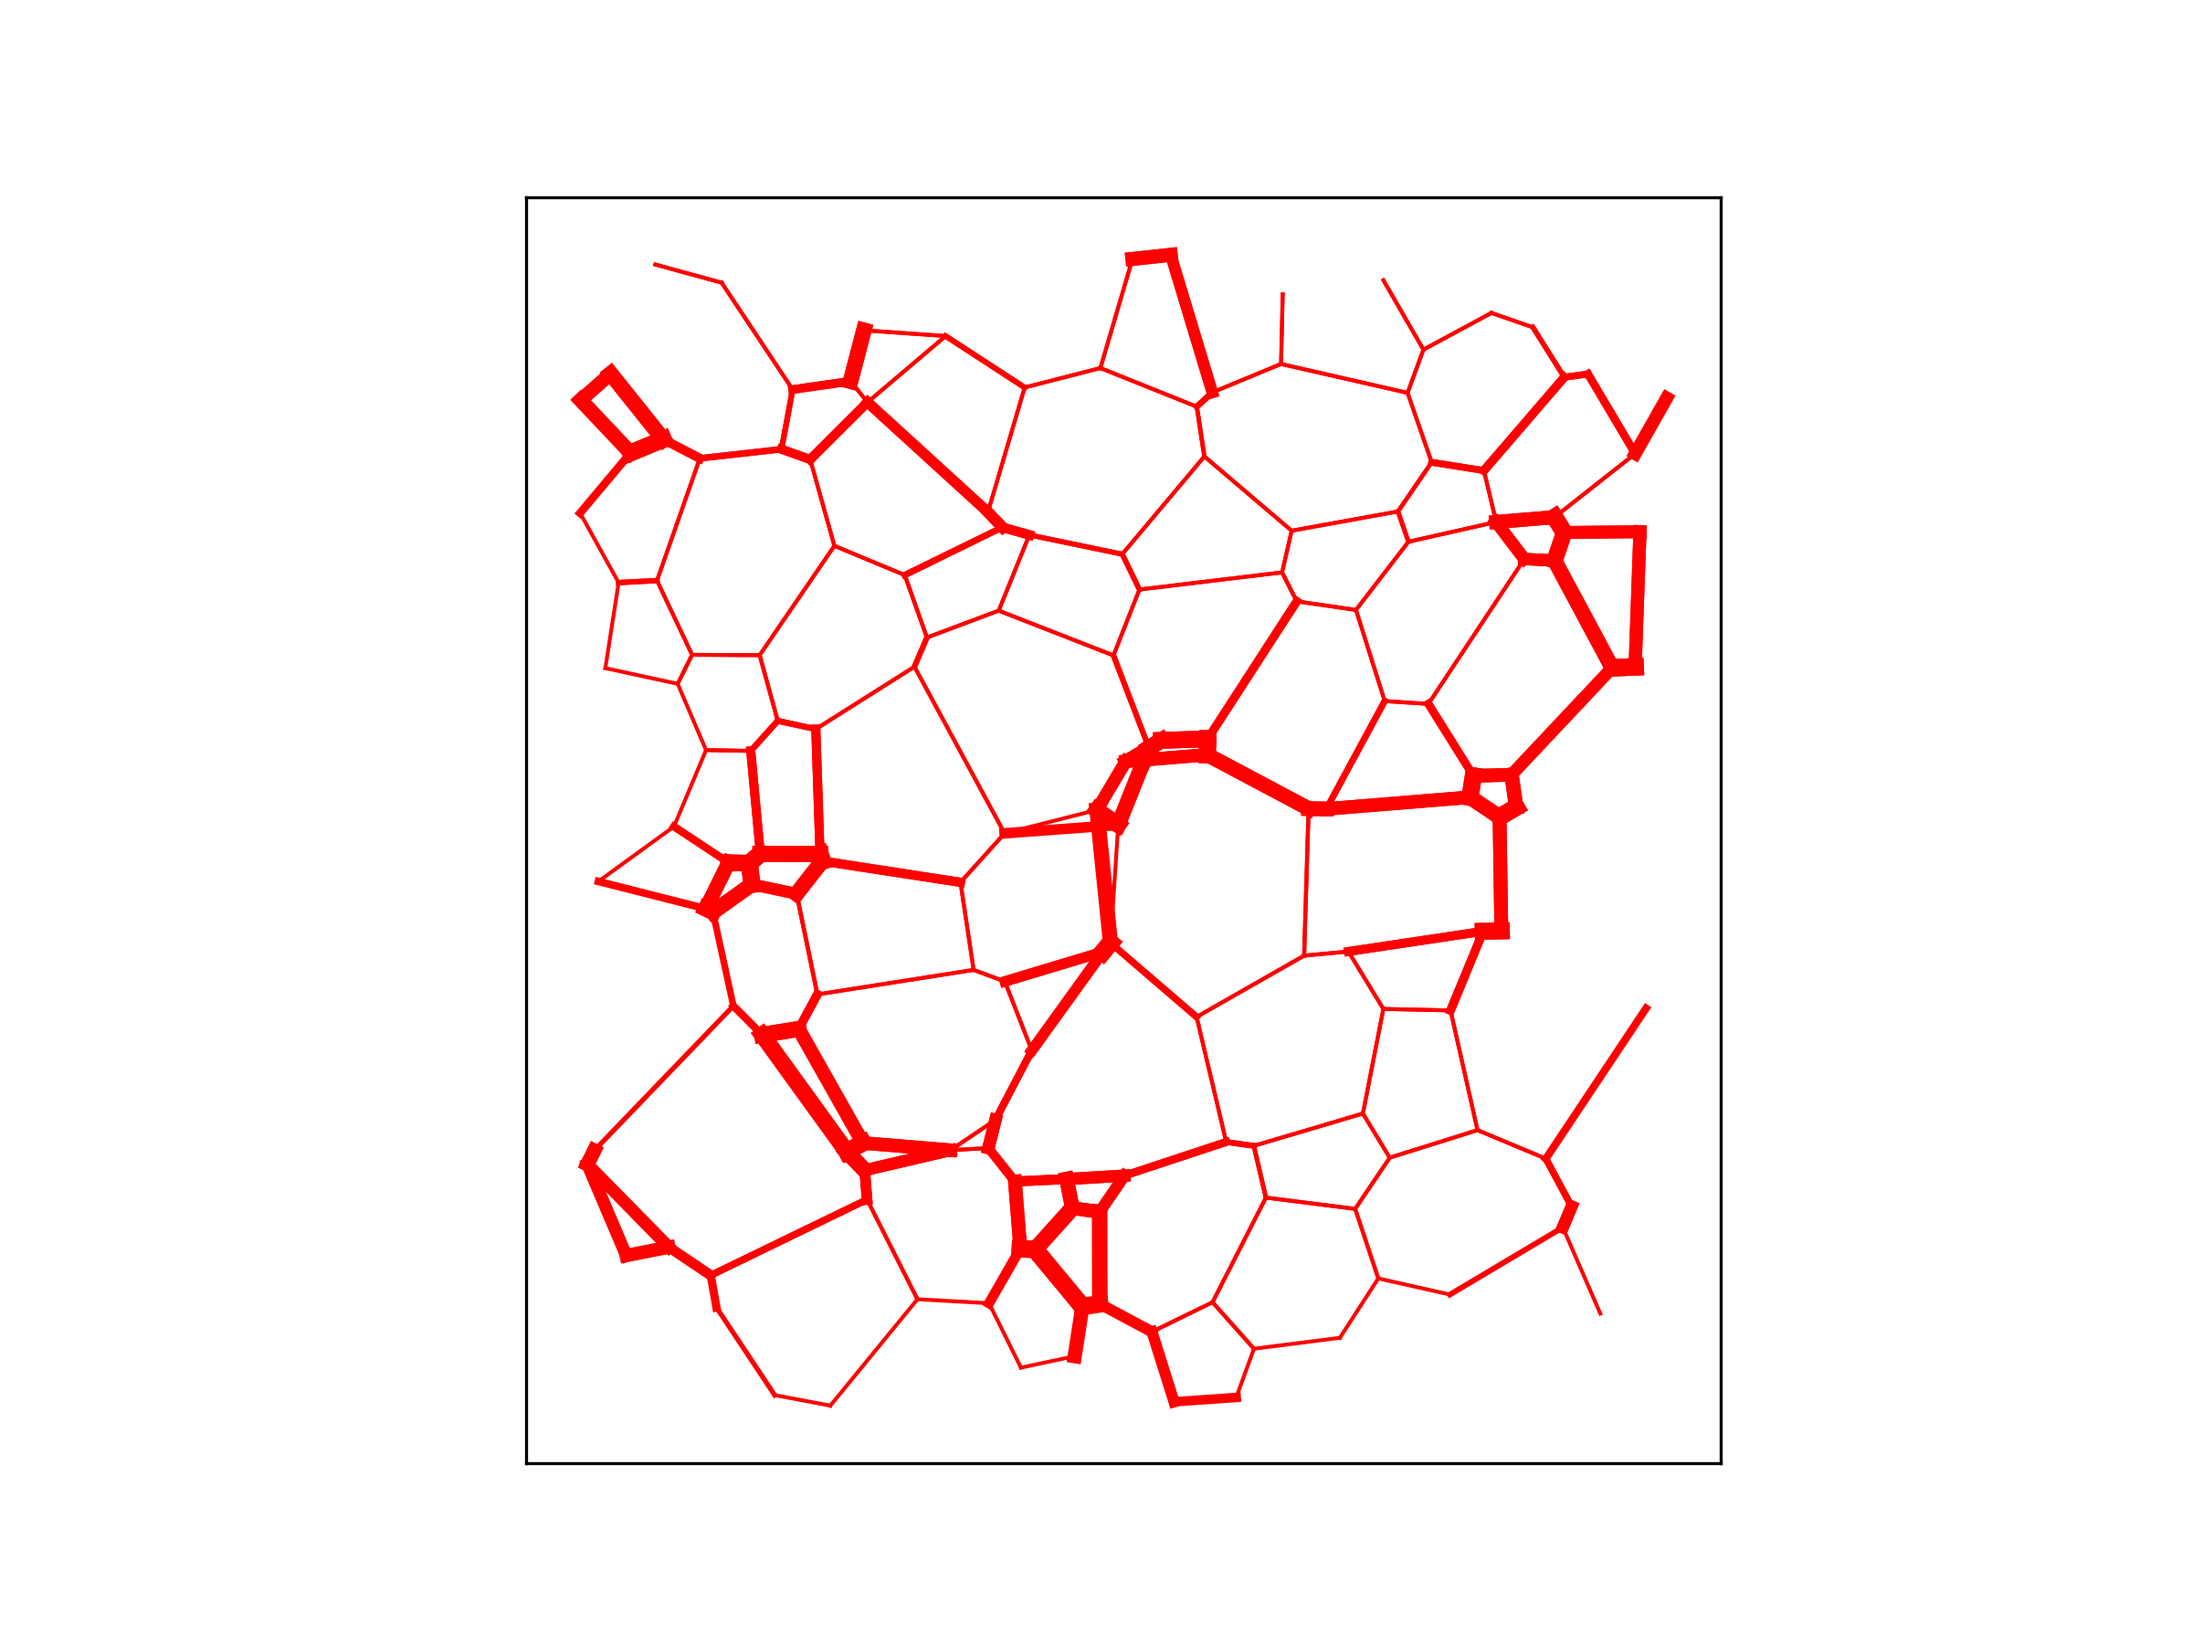
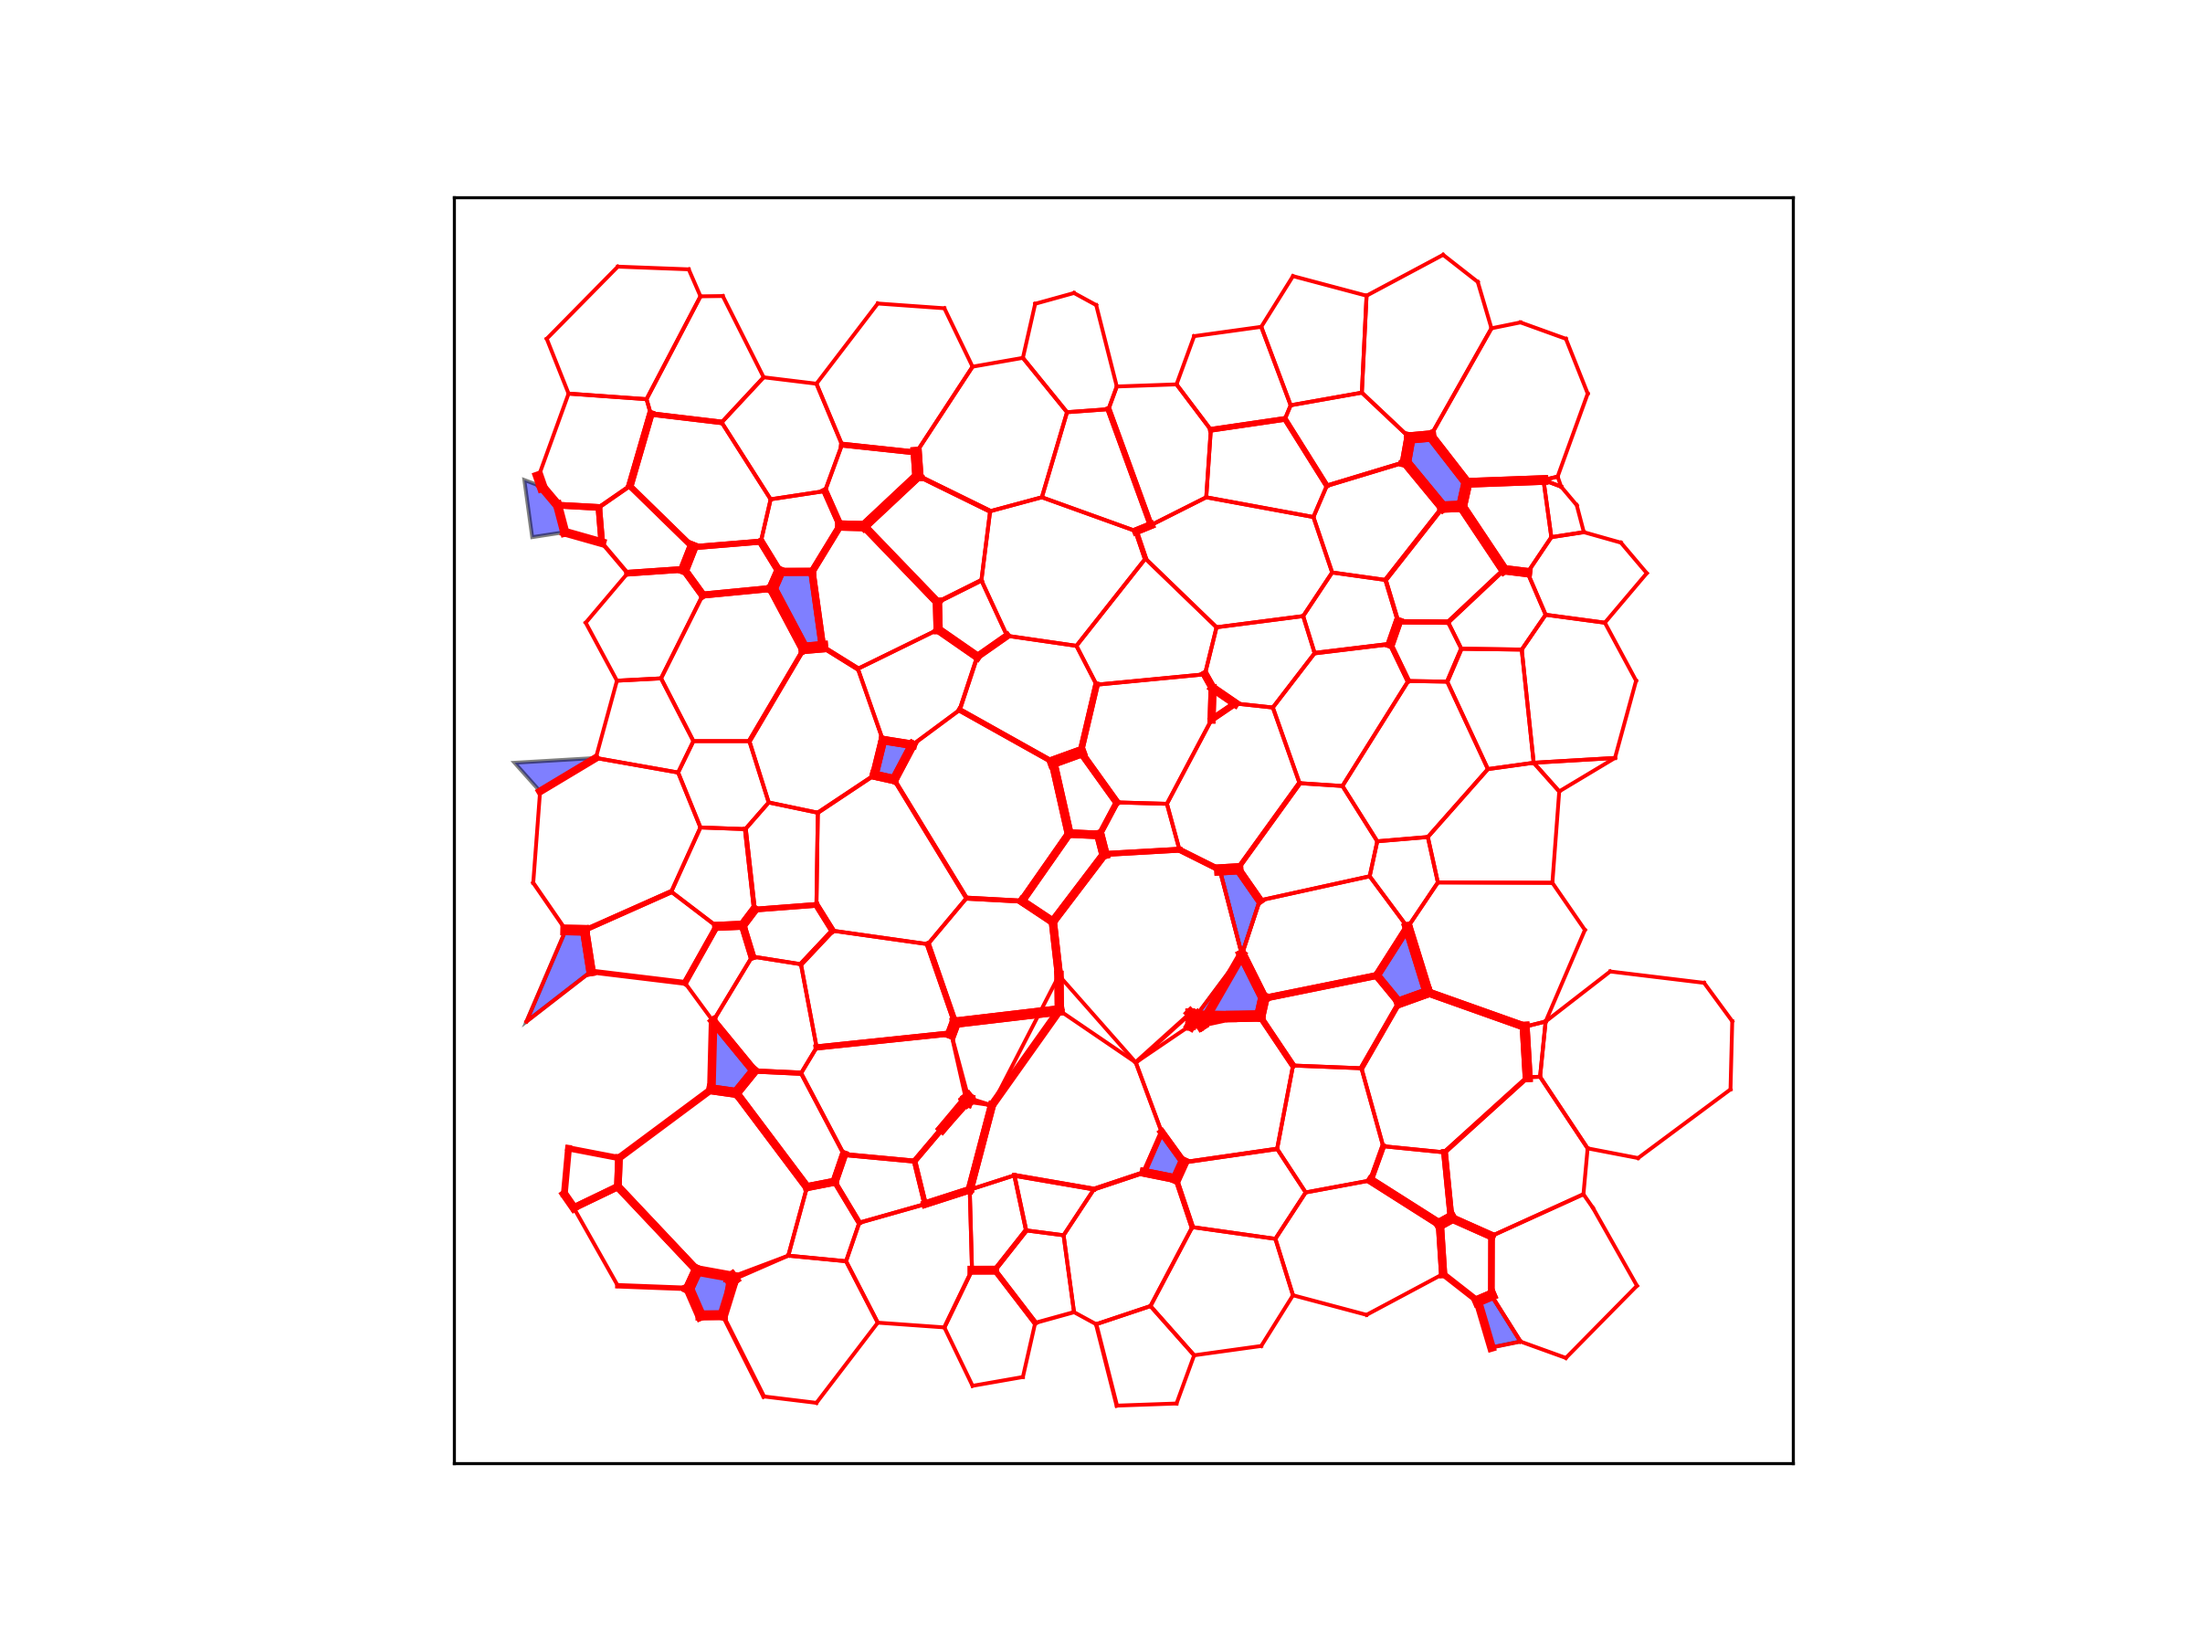
check_planar

diff --git a/graph_datastruct.py b/graph_datastruct.py
@@ -12,6 +12,7 @@ import PIL.Image as Image
 import numpy as np
 import matplotlib.pyplot as plt
 from matplotlib import cm
+import matplotlib.patches as patches
 from matplotlib.colors import ListedColormap
 plt.rcParams.update({'font.size': 24})
 coolwarm = cm.get_cmap('coolwarm', 256)
@@ -27,6 +28,7 @@ from math import pi
 from collections import defaultdict
 import math
 import argparse
+import networkx as nx
 from user_generate import user_defined_config
 
 def angle_norm(angular):
@@ -252,7 +254,9 @@ class graph:
         self.region_coors = defaultdict(list)
         self.region_edge = defaultdict(set)
         self.region_center = defaultdict(list)
-        self.vertex_coord_to_index= {}
+        self.vertex_coord_to_index = {}
+        self.index_to_vertex_coord = {}
+        self.elim_grain_to_vertices={}
         self.edge_prob_dict = {}
         self.junct_gradient_dict={}
 
@@ -625,8 +629,93 @@ class graph:
         ax.set_yticks([])
         plt.savefig(fname, dpi=300)
 
+    def check_planar(self, edge_index_dict):
+        def plot_edges(self, edges):
+            for u, v in edges:
+                # Retrieve coordinates from self.vertices
+                coord_u = self.vertices[u]
+                coord_v = self.vertices[v]
+                # Plot the edge between the two coordinates
+                plt.plot([coord_u[0], coord_v[0]], [coord_u[1], coord_v[1]], 'k-')
+            plt.title("Graph Plot")
+            plt.xlabel("x")
+            plt.ylabel("y")
+            plt.savefig('planar_graph.png',dpi=600)
+
+        E_pp = edge_index_dict['joint', 'connect', 'joint']
+        G=nx.Graph()
+        for v,coord in self.vertices.items():
+            G.add_node(v, pos=coord)
+        unique_edges = set()
+        num_edges = E_pp.shape[1]
+        for i in range(num_edges):
+            src = int(E_pp[0, i].item())
+            dst = int(E_pp[1, i].item())
+            if(math.sqrt((self.vertices[src][0]-self.vertices[dst][0])**2+(self.vertices[dst][1]-self.vertices[src][1])**2)>0.8):
+                continue
+            edge = (min(src, dst), max(src, dst))
+            unique_edges.add(edge)
+        
+        for edge in unique_edges:
+            G.add_edge(*edge)
+
+        is_planar,embedding =nx.check_planarity(G,counterexample=True)
+        #plot_edges(self,counterexample.edges())
+        if is_planar:
+            pos = nx.spring_layout(G)
+            nx.draw(G, pos, with_labels=True)
+            plt.savefig('planar_graph.png',dpi=600)
+
+
+        # if not is_planar:
+        #     print("counterexample:",counterexample.edges())
+        #     pos = nx.spring_layout(counterexample)
+        #     nx.draw(counterexample, pos, with_labels=True)
+        #     plt.savefig('planar_graph.png',dpi=600)
+
+        print("Graph is planar:", is_planar)
+    
     def snap_classifer(self,fname='snap_classifer'):
-        def scale_linewidth(prob, threshold=1e-9, base_width=1, max_width=10, scale_factor=0.4):
+        fig, ax = plt.subplots(figsize=(8, 6))
+        def sort_polygon(coords):
+            cx = sum([p[0] for p in coords]) / len(coords)
+            cy = sum([p[1] for p in coords]) / len(coords)
+            
+            # Sort the points by the angle they make with the centroid
+            sorted_coords = sorted(coords, key=lambda p: math.atan2(p[1] - cy, p[0] - cx))
+            return sorted_coords
+        color = 'blue'
+        alpha = 0.5
+        print('elimgrains',self.elim_grain_to_vertices.items())
+        for grain, vertex_indices in self.elim_grain_to_vertices.items():
+            # Get coordinates for all vertices of this grain.
+            coords = [self.index_to_vertex_coord[v] for v in vertex_indices]
+            
+            # Check we have enough points
+            if len(coords) < 3:
+                continue
+            
+            ref=coords[0]
+            # ref = None
+            # for coord in coords:
+            #     if coord[0] > 0.5 and coord[1] > 0.5:
+            #         ref = coord
+            #         break
+            # if ref is None:
+            #     ref = coords[0] 
+
+            # Adjust every coordinate so that it is in the same periodic cell as the reference.
+            adjusted_coords = [periodic_move(coord, ref) for coord in coords]
+            
+            # Now sort the adjusted coordinates into a proper polygon order.
+            sorted_coords = sort_polygon(adjusted_coords)  # Assume sort_polygon is defined elsewhere
+            
+            # Create a polygon patch from the sorted coordinates
+            polygon = patches.Polygon(sorted_coords, closed=True,
+                                    facecolor=color, edgecolor='black', alpha=alpha)
+            ax.add_patch(polygon)
+
+        def scale_linewidth(prob, threshold=1e-8, base_width=1, max_width=10, scale_factor=0.25):
             if prob < threshold:
                 return base_width
             # Compute the logarithmic scale factor
@@ -634,7 +723,6 @@ class graph:
             # Cap the linewidth at max_width
             return min(lw, max_width)
         # Create a single subplot (a single axis)
-        fig, ax = plt.subplots(figsize=(8, 6))
         
         for coors in self.region_coors.values():
             for i in range(len(coors)):
@@ -659,12 +747,12 @@ class graph:
                 nxt_index = self.vertex_coord_to_index.get(nxt_key)
 
                 if cur_index is None or nxt_index is None:
-                    continue
+                    prob=0
+                else:
+                    edge = (min(cur_index, nxt_index), max(cur_index, nxt_index))
+                    prob = self.edge_prob_dict.get(edge, 0)
 
-                edge = (min(cur_index, nxt_index), max(cur_index, nxt_index))
-                prob = self.edge_prob_dict.get(edge, 0)
-
-                lw = scale_linewidth(prob, threshold=1e-9)
+                lw = scale_linewidth(prob, threshold=1e-8)
 
 
                 ax.plot([cur[0], nxt[0]], [cur[1], nxt[1]], color='r', linewidth=lw)
@@ -760,6 +848,7 @@ class graph:
         self.region_center.clear()
         self.region_edge.clear()
         self.vertex_coord_to_index.clear()
+        self.index_to_vertex_coord.clear()
         region_bound = defaultdict(list)
         
         for k, v in self.joint2vertex.items():
@@ -776,6 +865,7 @@ class graph:
                     coord = tuple(coord)
                 # Store the mapping: key = coordinate, value = vertex index
                 self.vertex_coord_to_index[coord] = v
+                self.index_to_vertex_coord[v]=coord
         cnt = 0
         edge_count = 0
 

diff --git a/test.py b/test.py
@@ -85,7 +85,7 @@ if __name__=='__main__':
     parser.add_argument("--interp_frames", type=int, default=0)    
     parser.add_argument("--save_fig", type=int, default=2)
     parser.add_argument("--reconst_mesh_size", type=float, default=0.08) 
-    parser.add_argument("--nucleation_density", type=float, default=0.00)
+    parser.add_argument("--nucleation_density", type=float, default=0.001)
 
     parser.add_argument("--temporal", dest='temporal', action='store_true')
     parser.set_defaults(temporal=False)
@@ -295,6 +295,7 @@ if __name__=='__main__':
             X = {k:v.clone() for k, v in data.x_dict.items()}
             prev_X, prev_mask, prev_edge_index_dict = {k:v.clone() for k, v in X.items()}, {k:v.clone() for k, v in data['mask'].items()}, {k:v.clone() for k, v in data.edge_index_dict.items()}
             traj.GNN_update(0, X, data['mask'], True, data.edge_index_dict, args.compare)
+            traj.check_planar(prev_edge_index_dict)
             if args.plot:
                 traj.show_data_struct()
                 
@@ -304,7 +305,7 @@ if __name__=='__main__':
             
             if args.growth_height>0:
                 traj.final_height = traj.ini_height + args.growth_height
-            traj.frames = int( (traj.final_height - traj.ini_height)/train_delta_z ) + 1-72
+            traj.frames = int( (traj.final_height - traj.ini_height)/train_delta_z ) + 1-84
             
 
             geometry_scaling = {'domain_offset':0, 'domain_factor':traj.lxd/traj.patch_size}
@@ -356,6 +357,7 @@ if __name__=='__main__':
                 height = traj.ini_height + frame*train_delta_z
                 if args.save_fig>1 and (frame)%((traj.frames - 1)//(args.save_fig-1))==0:
                     traj.snap('snap_before')
+                traj.check_planar(data.edge_index_dict)
                 
                 """
                 <1> combine predictions from regressor and classifier
@@ -407,13 +409,7 @@ if __name__=='__main__':
                 if data.x_dict['grain'][0, 2] > train_frames/(train_frames + 1):
                     data.x_dict['grain'][:, 2] = train_frames/(train_frames + 1)         
                     data.x_dict['joint'][:, 2] = train_frames/(train_frames + 1)
-                if args.save_fig>1 and frame%((traj.frames - 1)//(args.save_fig-1))==0:
-                    traj.edge_prob_dict=Cmodel.get_prob(data.edge_index_dict,pred)
-                    traj.snap_classifer('class_before')
-                    traj.junct_gradient_dict=Rmodel.get_gradient_dict(data.x_dict)
-                    traj.show_movement('vertex changes')                
-                print(data.x_dict['joint'][10:20,6:8])
-                print(len(traj.vertex_coord_to_index))
+            
                 
                 """
                 <3> predict events and update features and connectivity
@@ -427,6 +423,12 @@ if __name__=='__main__':
                 if traj.BC == 'noflux': # the grain 0 here is boundary grain
                     pred['grain_event'] = pred['grain_event'][pred['grain_event']!=0]
                 
+                if args.save_fig>1 and frame%((traj.frames - 1)//(args.save_fig-1))==0:
+                    traj.edge_prob_dict=Cmodel.get_prob(data.edge_index_dict,pred)
+                    traj.elim_grain_to_vertices=Cmodel.get_elimin_grain_vertex(data.edge_index_dict,pred, geometry_scaling)
+                    traj.snap_classifer('class_before')
+                    # traj.junct_gradient_dict=Rmodel.get_gradient_dict(data.x_dict)
+                    # traj.show_movement('vertex changes')    
                 nucleation_prob = args.nucleation_density*traj.lxd*traj.lxd*train_delta_z/data['mask']['joint'].sum()
                 print('nucleation probability for each junction: ', nucleation_prob)
                 data.x_dict, data.edge_index_dict, pairs = Cmodel.update(data.x_dict, data.edge_index_dict, data.edge_attr_dict, pred, data['mask'], geometry_scaling, nucleation_prob)
@@ -476,11 +478,11 @@ if __name__=='__main__':
               #  print('connectivity error of the graph: pp edge %f, pq edge %f'%(pp_err, pq_err))
                 X = {k:v.clone() for k, v in data.x_dict.items()}
                 if geometry_scaling['domain_factor']>1:
-                    
                     X['joint'][:,:2] =  (X['joint'][:,:2] + geometry_scaling['domain_offset'])/geometry_scaling['domain_factor']
                     
 
-                
+                if args.save_fig>1 and (frame)%((traj.frames - 1)//(args.save_fig-1))==0:
+                    traj.snap('snap_mid')
                 traj.GNN_update(frame, X, data['mask'], topo, data.edge_index_dict, args.compare)
                 
                 if hasattr(traj, 'train_test_frame_ratio'):

diff --git a/models.py b/models.py
@@ -626,6 +626,41 @@ class GrainNN_classifier(torch.nn.Module):
             for s, d, p in zip(src, dst, prob)
         }
         return edge_prob_dict
+    
+    def get_elimin_grain_vertex(self,edge_index_dict,y_dict,geometry_scaling):
+        E_pp = edge_index_dict['joint', 'connect', 'joint']
+        E_pq = edge_index_dict['joint', 'pull', 'grain']
+        elim_grain_to_vet={}
+        for grain in y_dict['grain_event']:
+            
+            if grain not in geometry_scaling['active_grains']:continue
+            Np = E_pq[0][(E_pq[1]==grain).nonzero().view(-1)]
+            vertex_set = set(Np.tolist())
+            elim_grain_to_vet[grain]=vertex_set
+        return elim_grain_to_vet
+
+            # all_in_bound = True
+            # for p in Np:
+            #     if p not in geometry_scaling['active_joints']: 
+            #         all_in_bound = False
+            # if not all_in_bound: continue
+            
+            # if len(Np)==0:
+            #     continue
+            
+            # pairs = torch.combinations(Np, r=2)
+
+            # elim_edge = []                
+            # for p1, p2 in pairs:
+                
+            #     if p1>p2:
+            #         p1, p2 = p2, p1
+            #     E_index = ((E_pp[0]==p1)&(E_pp[1]==p2)).nonzero().view(-1)
+            #     if len(E_index)>0:
+            #         # print(p1, p2)
+            #         elim_edge.append(E_index)
+            # elim_edge = torch.cat(elim_edge)
+            # print('grain', grain, 'edge',elim_edge, 'junction',Np)
 
     def update(self, x_dict, edge_index_dict, edge_attr, y_dict, mask, geometry_scaling, nucleation_prob):            
             
